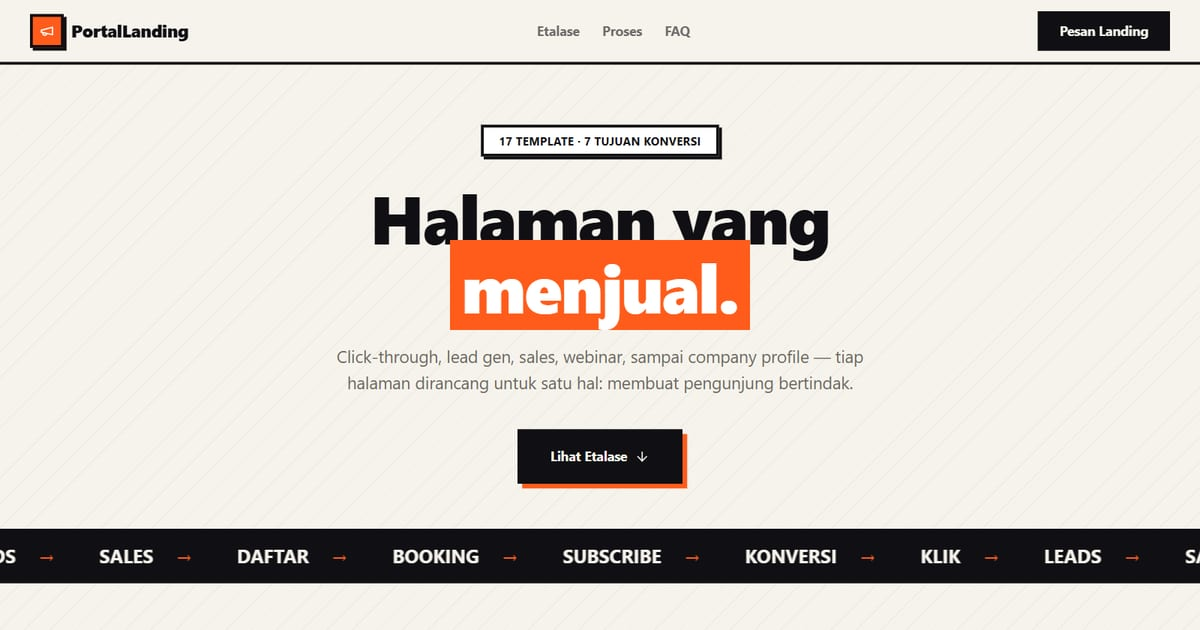
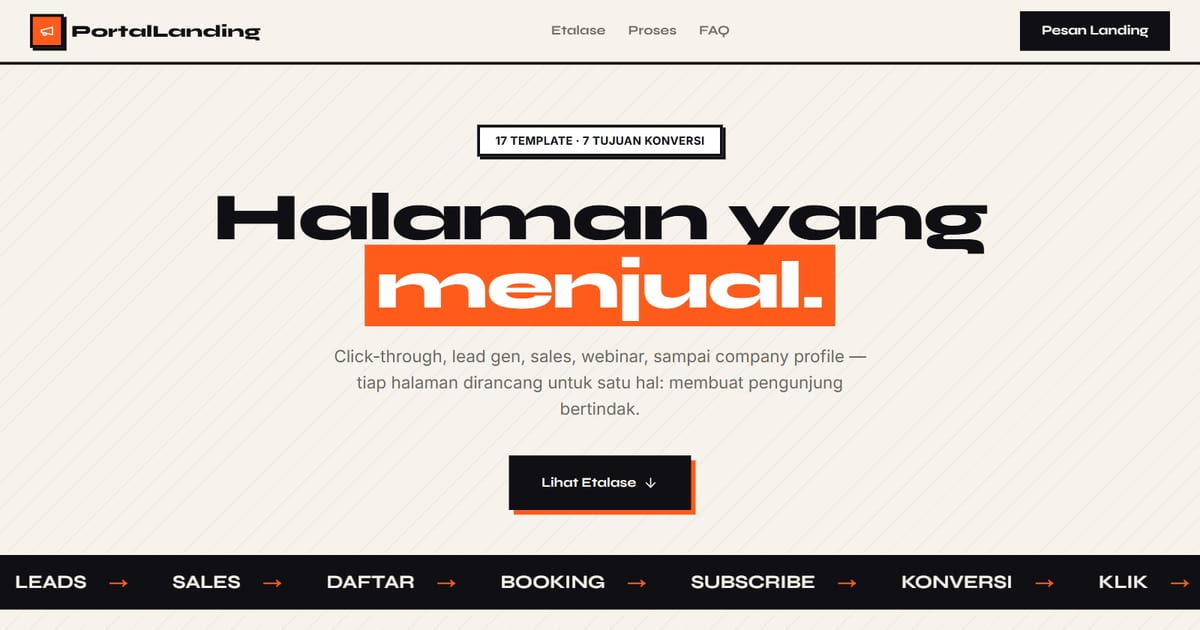
Portal landing: angka selaras paket PintuWeb, font, dan layar kecil
- Harga "mulai Rp200 ribu", "live 1–2 hari", dan skor "95+" bertentangan
  dengan PintuWeb (packages.ts/site.ts) -> Rp600 ribu–Rp1,2 juta,
  1–3 hari kerja, target PageSpeed 90+
- Variabel font di <body> -> <html> (kini Syne); judul hero dikecilkan
  di layar < 640 px agar "menjual." tidak meluap (0 px di 320/360)
- Tombol header muat di 360 px; CTA oranye berteks gelap (6.8:1)
- Nomor watermark langkah -> konten CSS aria-hidden; 404 bergaya billboard
- Tautan ke PintuWeb memakai domain utama www.pintuweb.com (apex dialihkan 308)

diff --git a/app/page.js b/app/page.js
@@ -11,14 +11,14 @@ const KATEGORI = ['Semua', 'Click-Through', 'Lead Gen', 'Sales', 'Webinar', 'Pro
 const PROSES = [
   { icon: FileText, no: '01', title: 'Kirim Brief', desc: 'Produk apa, target siapa, aksi apa yang kamu mau — cukup lewat WhatsApp.' },
   { icon: Paintbrush, no: '02', title: 'Kami Racik', desc: 'Copywriting + desain dari template pilihanmu, disesuaikan brand-mu.' },
-  { icon: Rocket, no: '03', title: 'Tayang & Menjual', desc: 'Halaman live dalam 1–2 hari, siap menampung klik dan konversi.' },
+  { icon: Rocket, no: '03', title: 'Tayang & Menjual', desc: 'Halaman live dalam 1–3 hari kerja, siap menampung klik dan konversi.' },
 ];
 
 const JAMINAN = [
-  { icon: Gauge, v: '95+', l: 'Skor performa Google' },
+  { icon: Gauge, v: '90+', l: 'Target skor PageSpeed' },
   { icon: Search, v: 'SEO', l: 'Siap diranking' },
   { icon: Smartphone, v: '100%', l: 'Mobile-friendly' },
-  { icon: TrendingUp, v: '1–2 hari', l: 'Sampai tayang' },
+  { icon: TrendingUp, v: '1–3 hari', l: 'Kerja sampai tayang' },
 ];
 
 const TANYA = [
@@ -26,7 +26,7 @@ const TANYA = [
   { q: 'Apakah termasuk copywriting?', a: 'Ya. Kami bantu menulis headline dan copy yang menjual berdasarkan brief-mu — kamu tinggal review dan setujui.' },
   { q: 'Bagaimana dengan formulir dan integrasi WhatsApp?', a: 'Semua CTA bisa diarahkan ke WhatsApp, formulir, e-commerce, atau link pembayaran. Kamu tentukan aksinya, kami pasang jalurnya.' },
   { q: 'Apakah halaman bisa dipakai untuk iklan (Meta/Google Ads)?', a: 'Sangat bisa — halaman ringan dan cepat justru menurunkan biaya iklan. Pixel/tag analytics juga bisa kami pasangkan.' },
-  { q: 'Berapa biayanya?', a: 'Mulai Rp200 ribu untuk satu halaman penuh (desain + copy + tayang). Konsultasi dulu gratis; harga final menyesuaikan kebutuhan.' },
+  { q: 'Berapa biayanya?', a: 'Paket Landing Page PintuWeb Rp600 ribu–Rp1,2 juta untuk satu halaman (desain, copy, tayang), selesai 1–3 hari kerja. Konsultasi dulu gratis; harga final menyesuaikan kebutuhan.' },
 ];
 
 export default function PortalLanding() {
@@ -39,7 +39,7 @@ export default function PortalLanding() {
       {/* Navbar */}
       <header className="sticky top-0 z-40 border-b-[3px] border-inkl bg-kreml/90 backdrop-blur-xl">
         <nav className="mx-auto flex max-w-7xl items-center justify-between px-4 py-3 sm:px-6 lg:px-8">
-          <a href="#top" className="flex items-center gap-2 font-display text-lg font-extrabold">
+          <a href="#top" className="flex min-w-0 items-center gap-2 font-display text-base font-extrabold sm:text-lg">
             <span className="grid h-9 w-9 place-items-center border-[3px] border-inkl bg-oranyel text-white shadow-[3px_3px_0_var(--color-inkl)]"><Megaphone size={16} /></span>
             PortalLanding
           </a>
@@ -48,7 +48,7 @@ export default function PortalLanding() {
             <a href="#proses" className="transition hover:text-oranyel">Proses</a>
             <a href="#tanya" className="transition hover:text-oranyel">FAQ</a>
           </div>
-          <a href={WA} target="_blank" rel="noopener noreferrer" className="border-[3px] border-inkl bg-inkl px-5 py-2 font-display text-sm font-bold text-kreml transition hover:bg-oranyel">
+          <a href={WA} target="_blank" rel="noopener noreferrer" className="shrink-0 border-[3px] border-inkl bg-inkl px-3 py-2 font-display text-sm font-bold text-kreml transition hover:bg-oranyel-ink sm:px-5">
             Pesan Landing
           </a>
         </nav>
@@ -60,7 +60,7 @@ export default function PortalLanding() {
           <span className="inline-block border-[3px] border-inkl bg-white px-4 py-1.5 text-xs font-bold uppercase tracking-wide shadow-[3px_3px_0_var(--color-inkl)]">
             17 template · 7 tujuan konversi
           </span>
-          <h1 className="mt-7 font-display text-5xl font-extrabold leading-[1.02] sm:text-7xl">
+          <h1 className="mt-7 font-display text-[2.35rem] font-extrabold leading-[1.02] min-[360px]:text-[2.6rem] sm:text-7xl">
             Halaman yang<br /><span className="bg-oranyel px-3 text-white">menjual.</span>
           </h1>
           <p className="mx-auto mt-6 max-w-xl text-lg text-mutedl">
@@ -187,7 +187,7 @@ export default function PortalLanding() {
                 transition={{ delay: i * 0.1, duration: 0.45 }}
                 className="relative border-[3px] border-inkl bg-white p-7 shadow-[5px_5px_0_var(--color-inkl)]"
               >
-                <span className="absolute right-5 top-4 font-display text-5xl font-extrabold text-inkl/10">{p.no}</span>
+                <span data-no={p.no} className="absolute right-5 top-4 font-display text-5xl font-extrabold text-inkl/10 before:content-[attr(data-no)]" aria-hidden="true" />
                 <span className="grid h-12 w-12 place-items-center border-[3px] border-inkl bg-oranyel text-white"><p.icon size={22} /></span>
                 <h3 className="mt-4 font-display text-lg font-bold">{p.title}</h3>
                 <p className="mt-2 text-sm text-mutedl">{p.desc}</p>
@@ -245,7 +245,7 @@ export default function PortalLanding() {
         <motion.div initial={{ opacity: 0, y: 16 }} whileInView={{ opacity: 1, y: 0 }} viewport={{ once: true }} transition={{ duration: 0.5 }} className="mx-auto max-w-xl">
           <h2 className="font-display text-3xl font-extrabold leading-tight md:text-5xl">Bisnismu butuh <span className="text-oranyel">halaman yang bekerja</span>.</h2>
           <p className="mt-4 text-kreml/60">Pilih template, kirim materi, dan halamanmu siap menjual dalam hitungan hari.</p>
-          <a href={WA} target="_blank" rel="noopener noreferrer" className="mt-8 inline-flex items-center gap-2 bg-oranyel px-9 py-4 font-display text-sm font-bold text-white transition hover:scale-[1.03] active:scale-95">
+          <a href={WA} target="_blank" rel="noopener noreferrer" className="mt-8 inline-flex items-center gap-2 bg-oranyel px-9 py-4 font-display text-sm font-bold text-inkl transition hover:scale-[1.03] active:scale-95">
             <MessageCircle size={16} /> Chat WhatsApp
           </a>
         </motion.div>
@@ -272,7 +272,7 @@ export default function PortalLanding() {
             <p className="font-display text-xs font-bold uppercase tracking-widest text-oranyel">Hubungi</p>
             <ul className="mt-3 space-y-2">
               <li><a href={WA} target="_blank" rel="noopener noreferrer" className="transition hover:text-kreml">WhatsApp +62 813 3990 8765</a></li>
-              <li><a href="https://pintuweb.com" target="_blank" rel="noopener noreferrer" className="transition hover:text-kreml">pintuweb.com</a></li>
+              <li><a href="https://www.pintuweb.com" target="_blank" rel="noopener noreferrer" className="transition hover:text-kreml">pintuweb.com</a></li>
             </ul>
           </div>
         </div>

diff --git a/app/layout.js b/app/layout.js
@@ -4,7 +4,7 @@ import { Syne, Inter } from 'next/font/google';
 const syne = Syne({ subsets: ['latin'], variable: '--font-syne', weight: ['600', '700', '800'] });
 const inter = Inter({ subsets: ['latin'], variable: '--font-inter' });
 
-const __jsonld = {"@context":"https://schema.org","@type":"CollectionPage","name":"PortalLanding","description":"Koleksi 17 landing page","url":"https://portal-landing-seven.vercel.app","isPartOf":{"@type":"WebSite","name":"PintuWeb","url":"https://pintuweb.com"}};
+const __jsonld = {"@context":"https://schema.org","@type":"CollectionPage","name":"PortalLanding","description":"Koleksi 17 landing page","url":"https://portal-landing-seven.vercel.app","isPartOf":{"@type":"WebSite","name":"PintuWeb","url":"https://www.pintuweb.com"}};
 
 export const metadata = {
   metadataBase: new URL("https://portal-landing-seven.vercel.app"),
@@ -40,8 +40,8 @@ export const metadata = {
 
 export default function RootLayout({ children }) {
   return (
-    <html lang="id">
-      <body className={`${syne.variable} ${inter.variable} antialiased`}>
+    <html lang="id" className={`${syne.variable} ${inter.variable}`}>
+      <body className="antialiased">
         <main>{children}</main>
       <script type="application/ld+json" dangerouslySetInnerHTML={{ __html: JSON.stringify(__jsonld) }} />
         </body>

diff --git a/app/not-found.js b/app/not-found.js
@@ -1,0 +1,14 @@
+import Link from 'next/link';
+
+export const metadata = { title: 'Halaman tidak ditemukan', robots: { index: false } };
+
+export default function NotFound() {
+  return (
+    <main className="flex min-h-screen flex-col items-center justify-center bg-kreml px-6 text-center text-inkl">
+      <p className="border-[3px] border-inkl bg-oranyel-ink px-3 py-1 font-display text-xs font-bold uppercase tracking-widest text-white">Error 404</p>
+      <h1 className="mt-6 font-display text-4xl font-extrabold sm:text-6xl">Halaman ini tidak menjual apa-apa</h1>
+      <p className="mt-4 max-w-md text-mutedl">Karena memang tidak ada. Tujuh belas landing page yang menjual ada di halaman utama.</p>
+      <Link href="/" className="mt-8 border-[3px] border-inkl bg-inkl px-6 py-3 font-display text-sm font-bold text-kreml shadow-[4px_4px_0_var(--color-oranyel)] transition hover:-translate-y-0.5">Lihat semua halaman</Link>
+    </main>
+  );
+}

diff --git a/README.md b/README.md
@@ -57,4 +57,4 @@ Buka http://localhost:3000. Untuk build produksi: `npm run build` lalu `npm star
 
 ---
 
-Dibuat oleh [PintuWeb](https://pintuweb.com), jasa pembuatan website.
+Dibuat oleh [PintuWeb](https://www.pintuweb.com), jasa pembuatan website.
